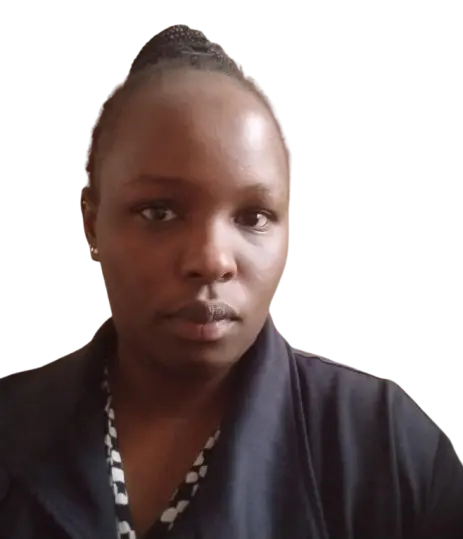
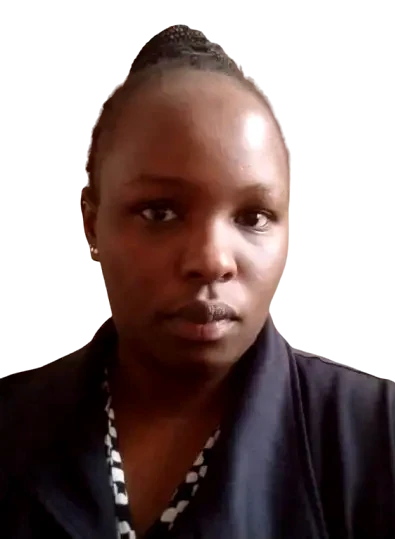
resized badge and fixed image

diff --git a/landing_page.html b/landing_page.html
@@ -432,7 +432,7 @@
                 margin-bottom: 4px;
             }
             .hero-mobile-badge-img {
-                height: 38px;
+                height: 58px;
                 width: auto;
             }
         }
@@ -442,13 +442,13 @@
                 font-size: 0.72rem;
             }
             .hero-mobile-badge-img {
-                height: 32px;
+                height: 48px;
             }
             .hero-mobile-hosted > div > div:first-child {
-                font-size: 0.65rem !important;
+                font-size: 0.85rem !important;
             }
             .hero-mobile-hosted > div > div:last-child {
-                font-size: 0.55rem !important;
+                font-size: 0.75rem !important;
             }
         }
         
@@ -1199,13 +1199,13 @@
                     <a href="#register-form" class="hero-btn-primary"><i class="bi bi-ticket-perforated me-2"></i> Reserve Free Seat</a>
                     <a href="#assessment" class="hero-btn-secondary"><i class="bi bi-calendar-check me-2"></i> Book Assessment</a>
                 </div>
-                <div style="display: flex; align-items: center; gap: 10px;">
-                    <img src="assets/images/badge.webp" alt="Microsoft Solutions Partner" style="height: 50px; width: auto;">
+                <div style="display: flex; align-items: center; gap: 14px;">
+                    <img src="assets/images/badge.webp" alt="Microsoft Solutions Partner" style="height: 85px; width: auto;">
                     <div>
-                        <div style="font-size: 0.75rem; color: rgba(255,255,255,0.6);">
+                        <div style="font-size: 1.15rem; color: rgba(255,255,255,0.6);">
                             Hosted by <strong style="color: rgba(255,255,255,0.85);">Brightpoint Infotech</strong>
                         </div>
-                        <div style="font-size: 0.65rem; color: rgba(255,255,255,0.5);">
+                        <div style="font-size: 0.95rem; color: rgba(255,255,255,0.5);">
                             Microsoft 2025 Partner of the Year
                         </div>
                     </div>
@@ -1242,10 +1242,10 @@
         <div class="hero-mobile-hosted">
             <img src="assets/images/badge.webp" alt="Microsoft Solutions Partner" class="hero-mobile-badge-img">
             <div style="text-align: left;">
-                <div style="font-size: 0.7rem; color: rgba(255,255,255,0.6);">
+                <div style="font-size: 1rem; color: rgba(255,255,255,0.6);">
                     Hosted by <strong style="color: rgba(255,255,255,0.85);">Brightpoint Infotech</strong>
                 </div>
-                <div style="font-size: 0.6rem; color: rgba(255,255,255,0.5);">
+                <div style="font-size: 0.85rem; color: rgba(255,255,255,0.5);">
                     Microsoft 2025 Partner of the Year
                 </div>
             </div>
@@ -1479,7 +1479,7 @@
         <div class="speakers-grid">
             <div class="speaker-card reveal">
                 <div class="speaker-image">
-                    <div class="speaker-avatar"><img src="assets/images/catherine-thuo.webp" alt="Catherine"></div>
+                    <div class="speaker-avatar"><img src="assets/images/catherine-thuo.webp" alt="Catherine" style="object-position: center 0%;"></div>
                     <div class="speaker-badge">D365 Functional Consultant</div>
                 </div>
                 <div class="speaker-content">

diff --git a/wordpress_embed.html b/wordpress_embed.html
@@ -432,7 +432,7 @@
                 margin-bottom: 4px;
             }
             .hero-mobile-badge-img {
-                height: 38px;
+                height: 58px;
                 width: auto;
             }
         }
@@ -442,13 +442,13 @@
                 font-size: 0.72rem;
             }
             .hero-mobile-badge-img {
-                height: 32px;
+                height: 48px;
             }
             .hero-mobile-hosted > div > div:first-child {
-                font-size: 0.65rem !important;
+                font-size: 0.85rem !important;
             }
             .hero-mobile-hosted > div > div:last-child {
-                font-size: 0.55rem !important;
+                font-size: 0.75rem !important;
             }
         }
         
@@ -1111,13 +1111,13 @@
                     <a href="#register-form" class="hero-btn-primary"><i class="bi bi-ticket-perforated me-2"></i> Reserve Free Seat</a>
                     <a href="#assessment" class="hero-btn-secondary"><i class="bi bi-calendar-check me-2"></i> Book Assessment</a>
                 </div>
-                <div style="display: flex; align-items: center; gap: 10px;">
-                    <img src="assets/images/badge.webp" alt="Microsoft Solutions Partner" style="height: 50px; width: auto;">
+                <div style="display: flex; align-items: center; gap: 14px;">
+                    <img src="assets/images/badge.webp" alt="Microsoft Solutions Partner" style="height: 85px; width: auto;">
                     <div>
-                        <div style="font-size: 0.75rem; color: rgba(255,255,255,0.6);">
+                        <div style="font-size: 1.15rem; color: rgba(255,255,255,0.6);">
                             Hosted by <strong style="color: rgba(255,255,255,0.85);">Brightpoint Infotech</strong>
                         </div>
-                        <div style="font-size: 0.65rem; color: rgba(255,255,255,0.5);">
+                        <div style="font-size: 0.95rem; color: rgba(255,255,255,0.5);">
                             Microsoft 2025 Partner of the Year
                         </div>
                     </div>
@@ -1154,10 +1154,10 @@
         <div class="hero-mobile-hosted">
             <img src="assets/images/badge.webp" alt="Microsoft Solutions Partner" class="hero-mobile-badge-img">
             <div style="text-align: left;">
-                <div style="font-size: 0.7rem; color: rgba(255,255,255,0.6);">
+                <div style="font-size: 1rem; color: rgba(255,255,255,0.6);">
                     Hosted by <strong style="color: rgba(255,255,255,0.85);">Brightpoint Infotech</strong>
                 </div>
-                <div style="font-size: 0.6rem; color: rgba(255,255,255,0.5);">
+                <div style="font-size: 0.85rem; color: rgba(255,255,255,0.5);">
                     Microsoft 2025 Partner of the Year
                 </div>
             </div>
@@ -1391,7 +1391,7 @@
         <div class="speakers-grid">
             <div class="speaker-card reveal">
                 <div class="speaker-image">
-                    <div class="speaker-avatar"><img src="assets/images/catherine-thuo.webp" alt="Catherine"></div>
+                    <div class="speaker-avatar"><img src="assets/images/catherine-thuo.webp" alt="Catherine" style="object-position: center 0%;"></div>
                     <div class="speaker-badge">D365 Functional Consultant</div>
                 </div>
                 <div class="speaker-content">
